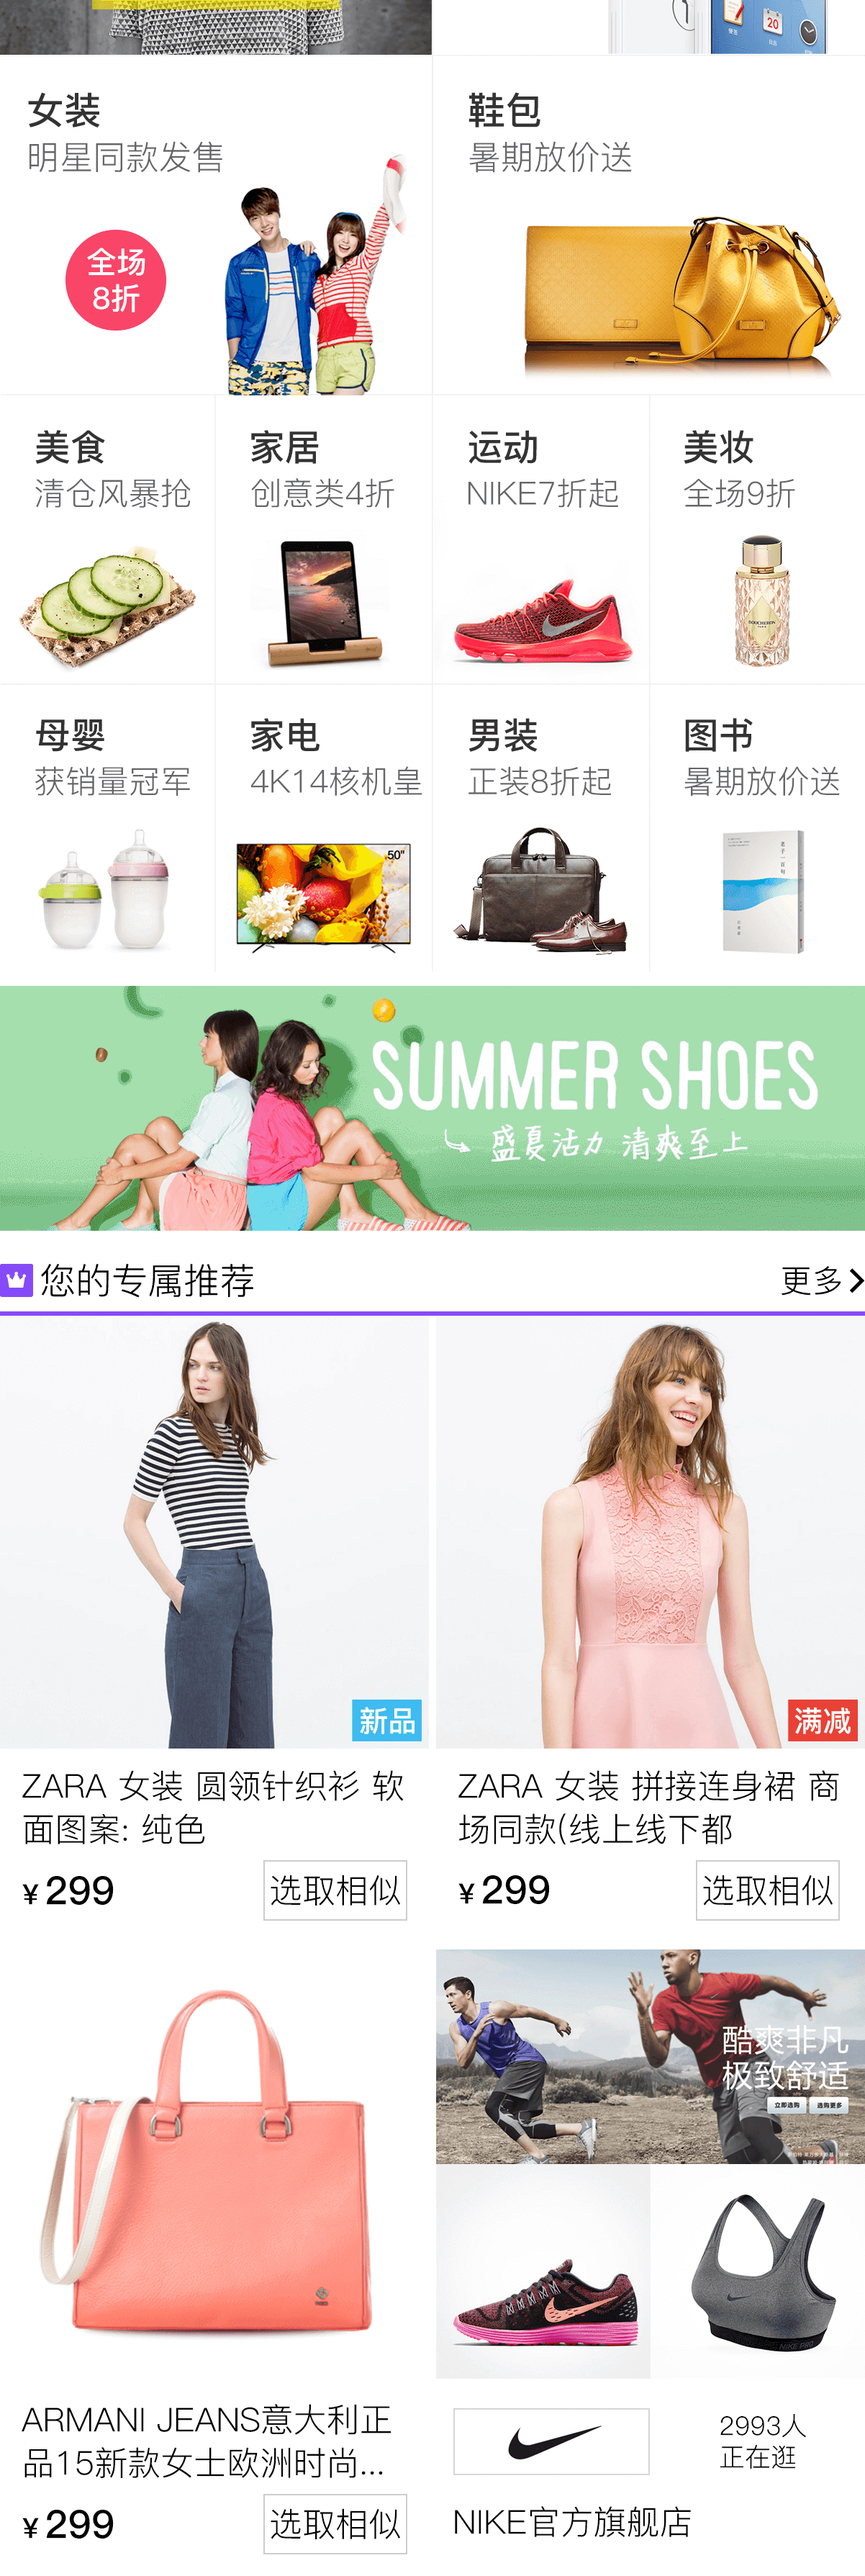
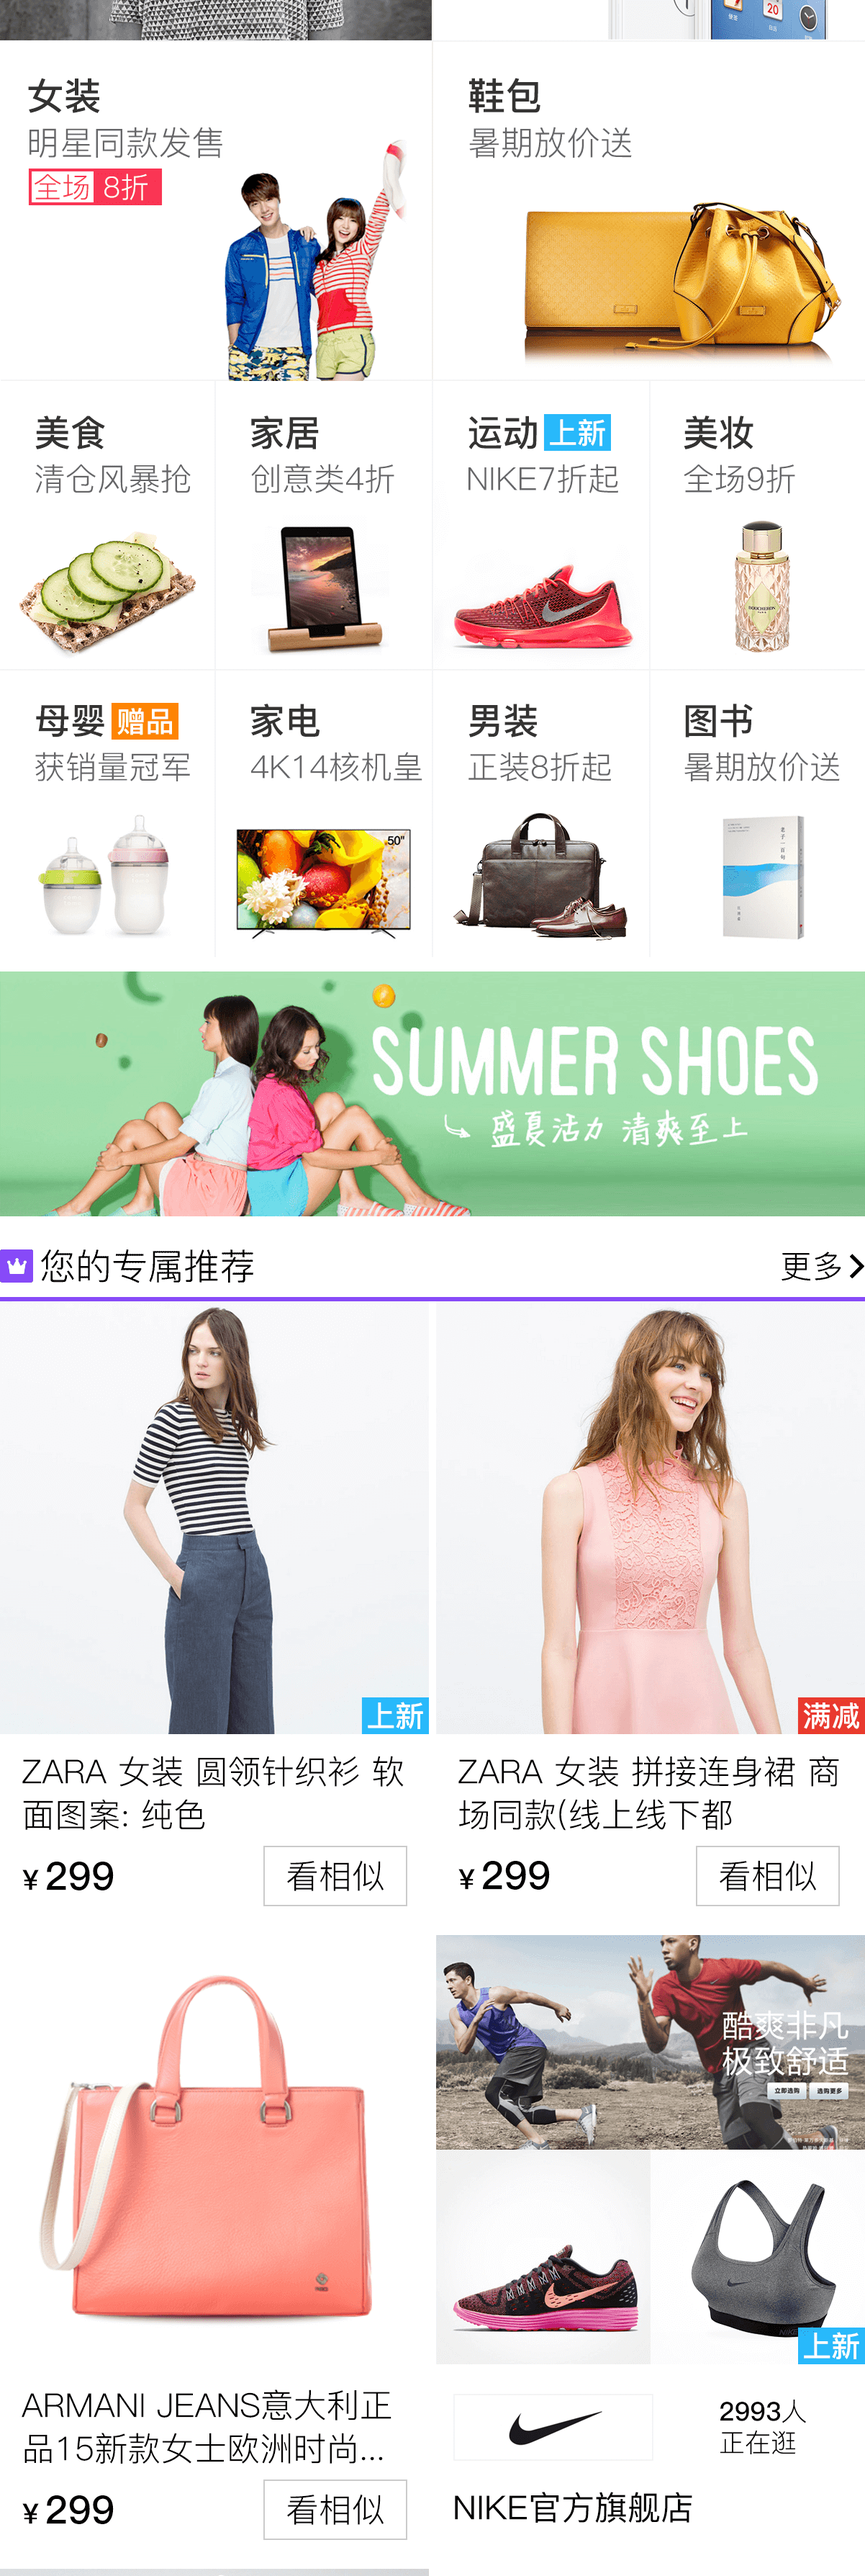
更新图片，增加“zara店铺”滚动区域

diff --git a/www/index.html b/www/index.html
@@ -45,7 +45,7 @@
                         <img src="img/main-icon.png" alt="">
                     </div>
                     <div id="J_seckill" class="seckill">
-                        <a class="go-sub go-f1-more" data-sub="f1-more" title="帮你省-更多" href="javascript:void(0);"></a>
+                        <!-- <a class="go-sub go-f1-more" data-sub="f1-more" title="帮你省-更多" href="javascript:void(0);"></a> -->
                         <img src="img/seckill-top.png" alt="">
                         <div class="hd">
                             <span class="h">12</span>
@@ -77,21 +77,21 @@
                             <a class="go-sub go-f1-4" data-sub="f1-4" title="多买多减" href="javascript:void(0);"></a>
                             <a class="go-sub go-f1-5" data-sub="f1-5" title="热卖排行" href="javascript:void(0);"></a>
                             <!--S f2 -->
-                            <a class="go-sub go-f2-0" data-sub="f2-1" title="帮你挑-更多" href="javascript:void(0);"></a>
+                            <!-- <a class="go-sub go-f2-0" data-sub="f2-1" title="帮你挑-更多" href="javascript:void(0);"></a> -->
                             <a class="go-sub go-f2-1" data-sub="f2-1" title="好物精选" href="javascript:void(0);"></a>
                             <a class="go-sub go-f2-2" data-sub="f2-2" title="情人节送什么" href="javascript:void(0);"></a>
                             <a class="go-sub go-f2-3" data-sub="f2-3" title="JOY教你挑" href="javascript:void(0);"></a>
                             <a class="go-sub go-f2-4" data-sub="f2-4" title="小食代" href="javascript:void(0);"></a>
                             <a class="go-sub go-f2-5" data-sub="f2-5" title="爱生活" href="javascript:void(0);"></a>
                             <!--S f3 -->
-                            <a class="go-sub go-f3-0" data-sub="f2-1" title="帮你挑-更多" href="javascript:void(0);"></a>
+                            <!-- <a class="go-sub go-f3-0" data-sub="f2-1" title="帮你挑-更多" href="javascript:void(0);"></a> -->
                             <a class="go-sub go-f3-1" data-sub="f3-1" title="今日最大牌" href="javascript:void(0);"></a>
+                            <a class="go-sub go-f3-5" data-sub="f3-5" title="ZARA店铺" href="javascript:void(0);"></a>
                             <a class="go-sub go-f3-2" data-sub="f3-2" title="首发预售" href="javascript:void(0);"></a>
                             <a class="go-sub go-f3-3" data-sub="f3-3" title="全球购" href="javascript:void(0);"></a>
                             <a class="go-sub go-f3-4" data-sub="f3-4" title="京东众筹" href="javascript:void(0);"></a>
-                            <a class="go-sub go-f3-5" data-sub="f3-5" title="ZARA店铺" href="javascript:void(0);"></a>
                             <!--S f4 -->
-                            <a class="go-sub go-f4-0" data-sub="f2-1" title="帮你挑-更多" href="javascript:void(0);"></a>
+                            <a class="go-sub go-f4-0" data-sub="f4-more" title="主题街-更多" href="javascript:void(0);"></a>
                             <a class="go-sub go-f4-1" data-sub="f4-1" title="风尚秀" href="javascript:void(0);"></a>
                             <a class="go-sub go-f4-2" data-sub="f4-2" title="超保数码3C" href="javascript:void(0);"></a>
                             <a class="go-sub go-f4-3" data-sub="f4-3" title="女装" href="javascript:void(0);"></a>
@@ -105,6 +105,12 @@
                             <a class="go-sub go-f4-11" data-sub="f4-11" title="男装" href="javascript:void(0);"></a>
                             <a class="go-sub go-f4-12" data-sub="f4-12" title="图书" href="javascript:void(0);"></a>
                         </div>
+                        <div class="shop-scroll go-sub go-f3-5" data-sub="f3-5">
+                            <img src="img/shoplist.png" alt="">
+                        </div>
+                    </div>
+                    <div class="content main-content main-p10 content-more">
+                        <img src="img/main3.png" alt="">
                     </div>
                 </div>
             </div>

diff --git a/www/css/index.css b/www/css/index.css
@@ -81,7 +81,7 @@ ul, li { list-style: none; padding: 0; margin: 0; }
 
 .seckill { overflow: hidden; position: relative; padding: 0 10px; }
 
-.seckill .hd { position: absolute; left: 21.5%; top: 18.5%; width: 23%; height: 38%; }
+.seckill .hd { position: absolute; left: 32%; top: 18.5%; width: 23%; height: 38%; }
 
 .seckill .hd span { display: inline-block; font-size: 13px; margin-right: 3%; width: 26%; height: 20%; line-height: 20px; text-align: center; }
 
@@ -160,25 +160,25 @@ ul, li { list-style: none; padding: 0; margin: 0; }
 
 .go-f3-1, .go-f3-5 { width: 100%; top: 22.5%; left: 0; }
 
-.go-f3-5 { top: 35.8%; }
+.go-f3-5 { top: 29.2%; }
 
-.go-f3-2, .go-f3-3, .go-f3-4 { width: 33%; left: 0; top: 29.2%; }
+.go-f3-2, .go-f3-3, .go-f3-4 { width: 33%; left: 0; top: 35.7%; }
 
 .go-f3-3 { left: 33%; }
 
 .go-f3-4 { width: 34%; left: 66%; }
 
-.go-f4-1, .go-f4-2, .go-f4-3, .go-f4-4 { width: 50%; left: 0; top: 44.5%; }
+.go-f4-1, .go-f4-2, .go-f4-3, .go-f4-4 { width: 50%; left: 0; top: 44.2%; }
 
-.go-f4-3, .go-f4-4 { top: 51.1%; }
+.go-f4-3, .go-f4-4 { top: 50.8%; }
 
 .go-f4-2, .go-f4-4 { left: 50%; }
 
 .go-f4-5, .go-f4-6, .go-f4-7, .go-f4-8, .go-f4-9, .go-f4-10, .go-f4-11, .go-f4-12 { width: 25%; left: 0; height: 5.6% !important; }
 
-.go-f4-5, .go-f4-6, .go-f4-7, .go-f4-8 { top: 57.6%; }
+.go-f4-5, .go-f4-6, .go-f4-7, .go-f4-8 { top: 57.4%; }
 
-.go-f4-9, .go-f4-10, .go-f4-11, .go-f4-12 { top: 63.3%; }
+.go-f4-9, .go-f4-10, .go-f4-11, .go-f4-12 { top: 63.0%; }
 
 .go-f4-6, .go-f4-10 { left: 25%; }
 
@@ -192,6 +192,12 @@ ul, li { list-style: none; padding: 0; margin: 0; }
 
 .go-f3-0 { top: 21.4%; width: 13%; }
 
-.go-f4-0 { top: 43.3%; width: 13%; }
+.go-f4-0 { top: 43%; width: 13%; }
+
+.shop-scroll::-webkit-scrollbar { display: none; }
+
+.shop-scroll { position: absolute; top: 29.2%; left: 10px; right: 10px; overflow-x: auto; overflow-y: hidden; background-color: #FFF; width: auto; }
+
+.shop-scroll:active { background-color: #FFF; }
 
 /*# sourceMappingURL=index.css.map */

diff --git a/www/css/index.scss b/www/css/index.scss
@@ -284,7 +284,7 @@ ul, li{
 }
 .seckill .hd{
     position: absolute;
-    left: 21.5%;
+    left: 32%;
     top: 18.5%;
     width: 23%;
     height: 38%;
@@ -497,12 +497,12 @@ ul, li{
     left: 0;
 }
 .go-f3-5{
-    top: 35.8%;
+    top: 29.2%;
 }
 .go-f3-2, .go-f3-3, .go-f3-4{
     width: 33%;
     left: 0;
-    top: 29.2%;
+    top: 35.7%;
 }
 .go-f3-3{
     left: 33%;
@@ -514,10 +514,10 @@ ul, li{
 .go-f4-1, .go-f4-2, .go-f4-3, .go-f4-4{
     width: 50%;
     left: 0;
-    top: 44.5%;
+    top: 44.2%;
 }
 .go-f4-3, .go-f4-4{
-    top: 51.1%;
+    top: 50.8%;
 }
 .go-f4-2, .go-f4-4{
     left: 50%;
@@ -529,10 +529,10 @@ ul, li{
     height: 5.6% !important;
 }
 .go-f4-5, .go-f4-6, .go-f4-7, .go-f4-8{
-    top: 57.6%;
+    top: 57.4%;
 }
 .go-f4-9, .go-f4-10, .go-f4-11, .go-f4-12{
-    top: 63.3%;
+    top: 63.0%;
 }
 .go-f4-6, .go-f4-10{
     left: 25%;
@@ -560,6 +560,23 @@ ul, li{
     width: 13%;
 }
 .go-f4-0{
-    top: 43.3%;
+    top: 43%;
     width: 13%;
+}
+.content-more{
+    // padding-bottom: 5px;
+}
+.shop-scroll::-webkit-scrollbar{display:none;}
+.shop-scroll{
+    position: absolute;
+    top: 29.2%;
+    left: 10px;
+    right: 10px;
+    overflow-x: auto;
+    overflow-y: hidden;
+    background-color: #FFF;
+    width: auto;
+}
+.shop-scroll:active{
+    background-color: #FFF;
 }

diff --git a/www/js/index.js b/www/js/index.js
@@ -275,7 +275,7 @@ $(function(){
             seckillNode.find('.items').css({
                 width: me.winW * num
             }).find('img').css({
-                width: (me.winW - offset)*2
+                width: (me.winW - offset)*2+5
             });
             //
             var scaleW = me.getScaleSize(260, 1202);
@@ -295,6 +295,11 @@ $(function(){
             setTimeout(function(){
                 appDom.seckillPercent();
             },1000);
+
+            //shop-list
+            $('.shop-scroll img').css({
+                width: (me.winW - offset)*3.9
+            });
         },
         bannerPos: function(index){
             var me = this;
